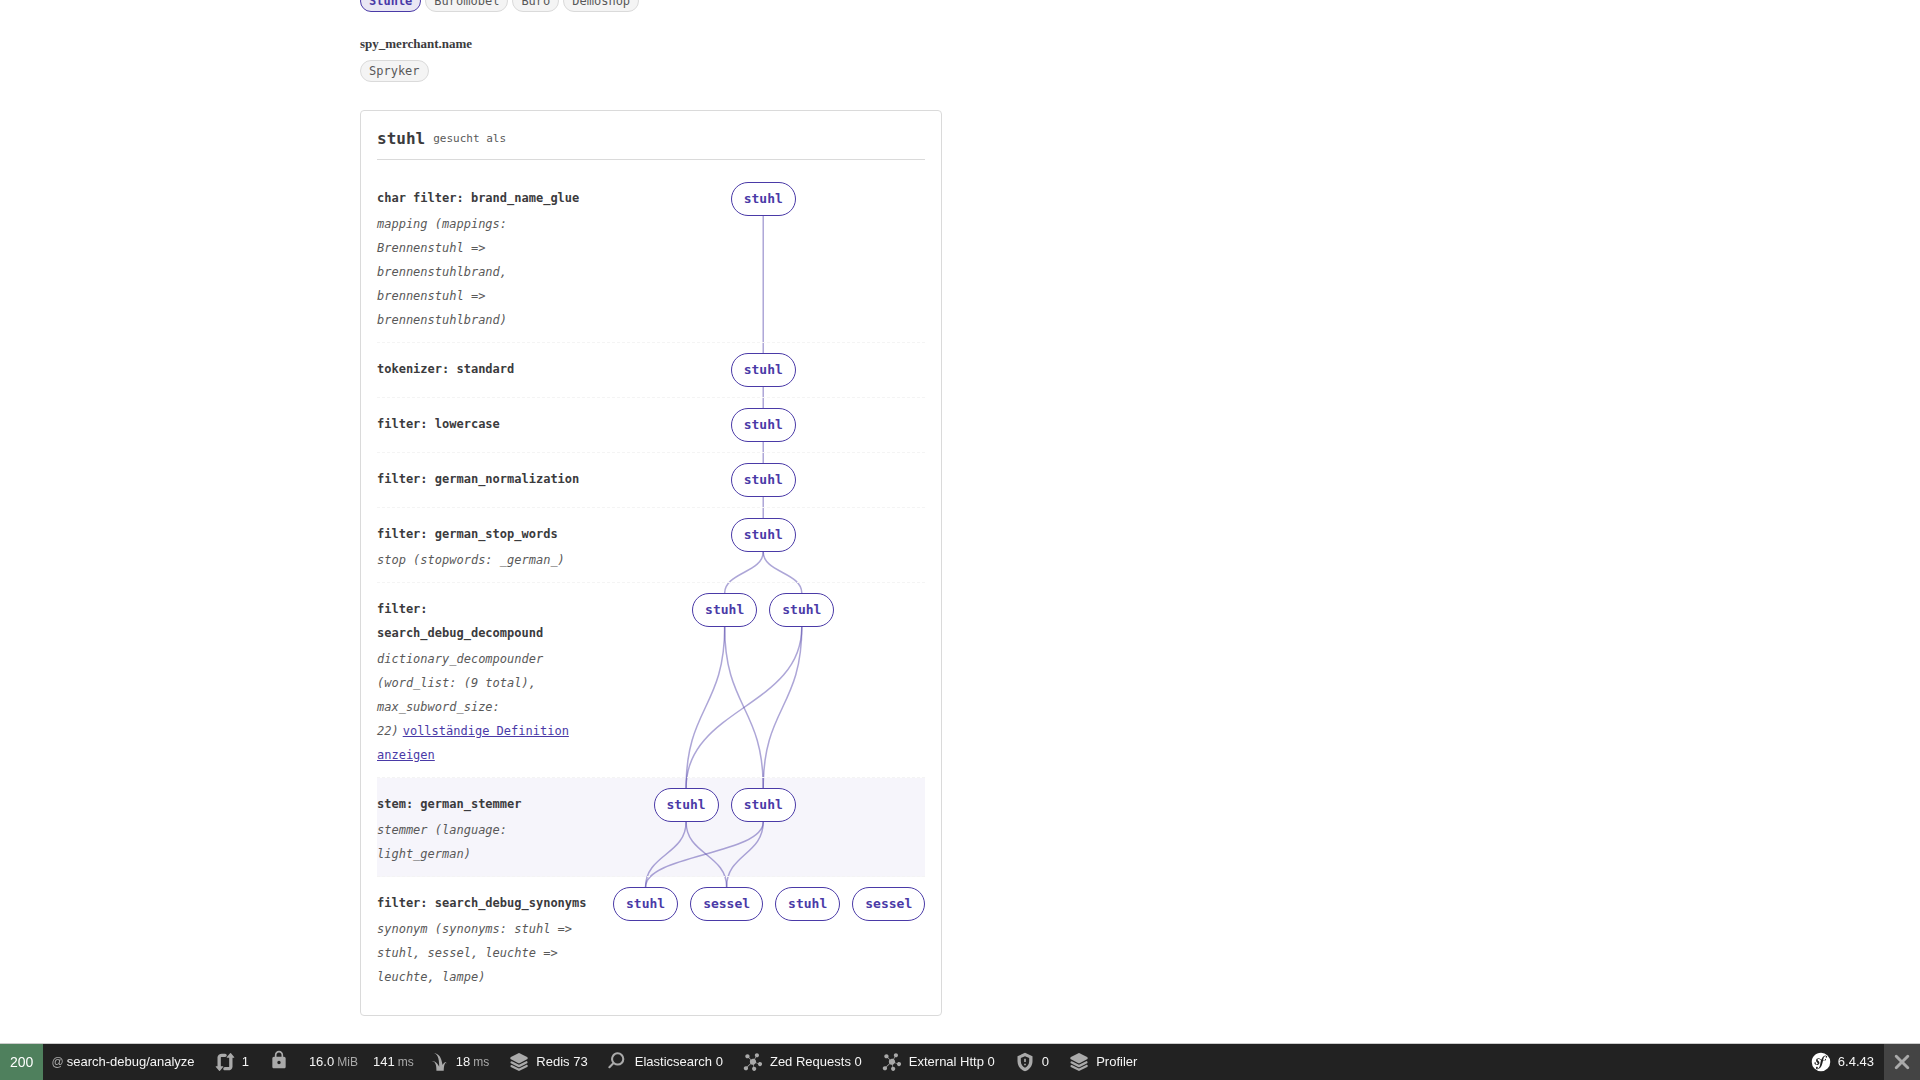
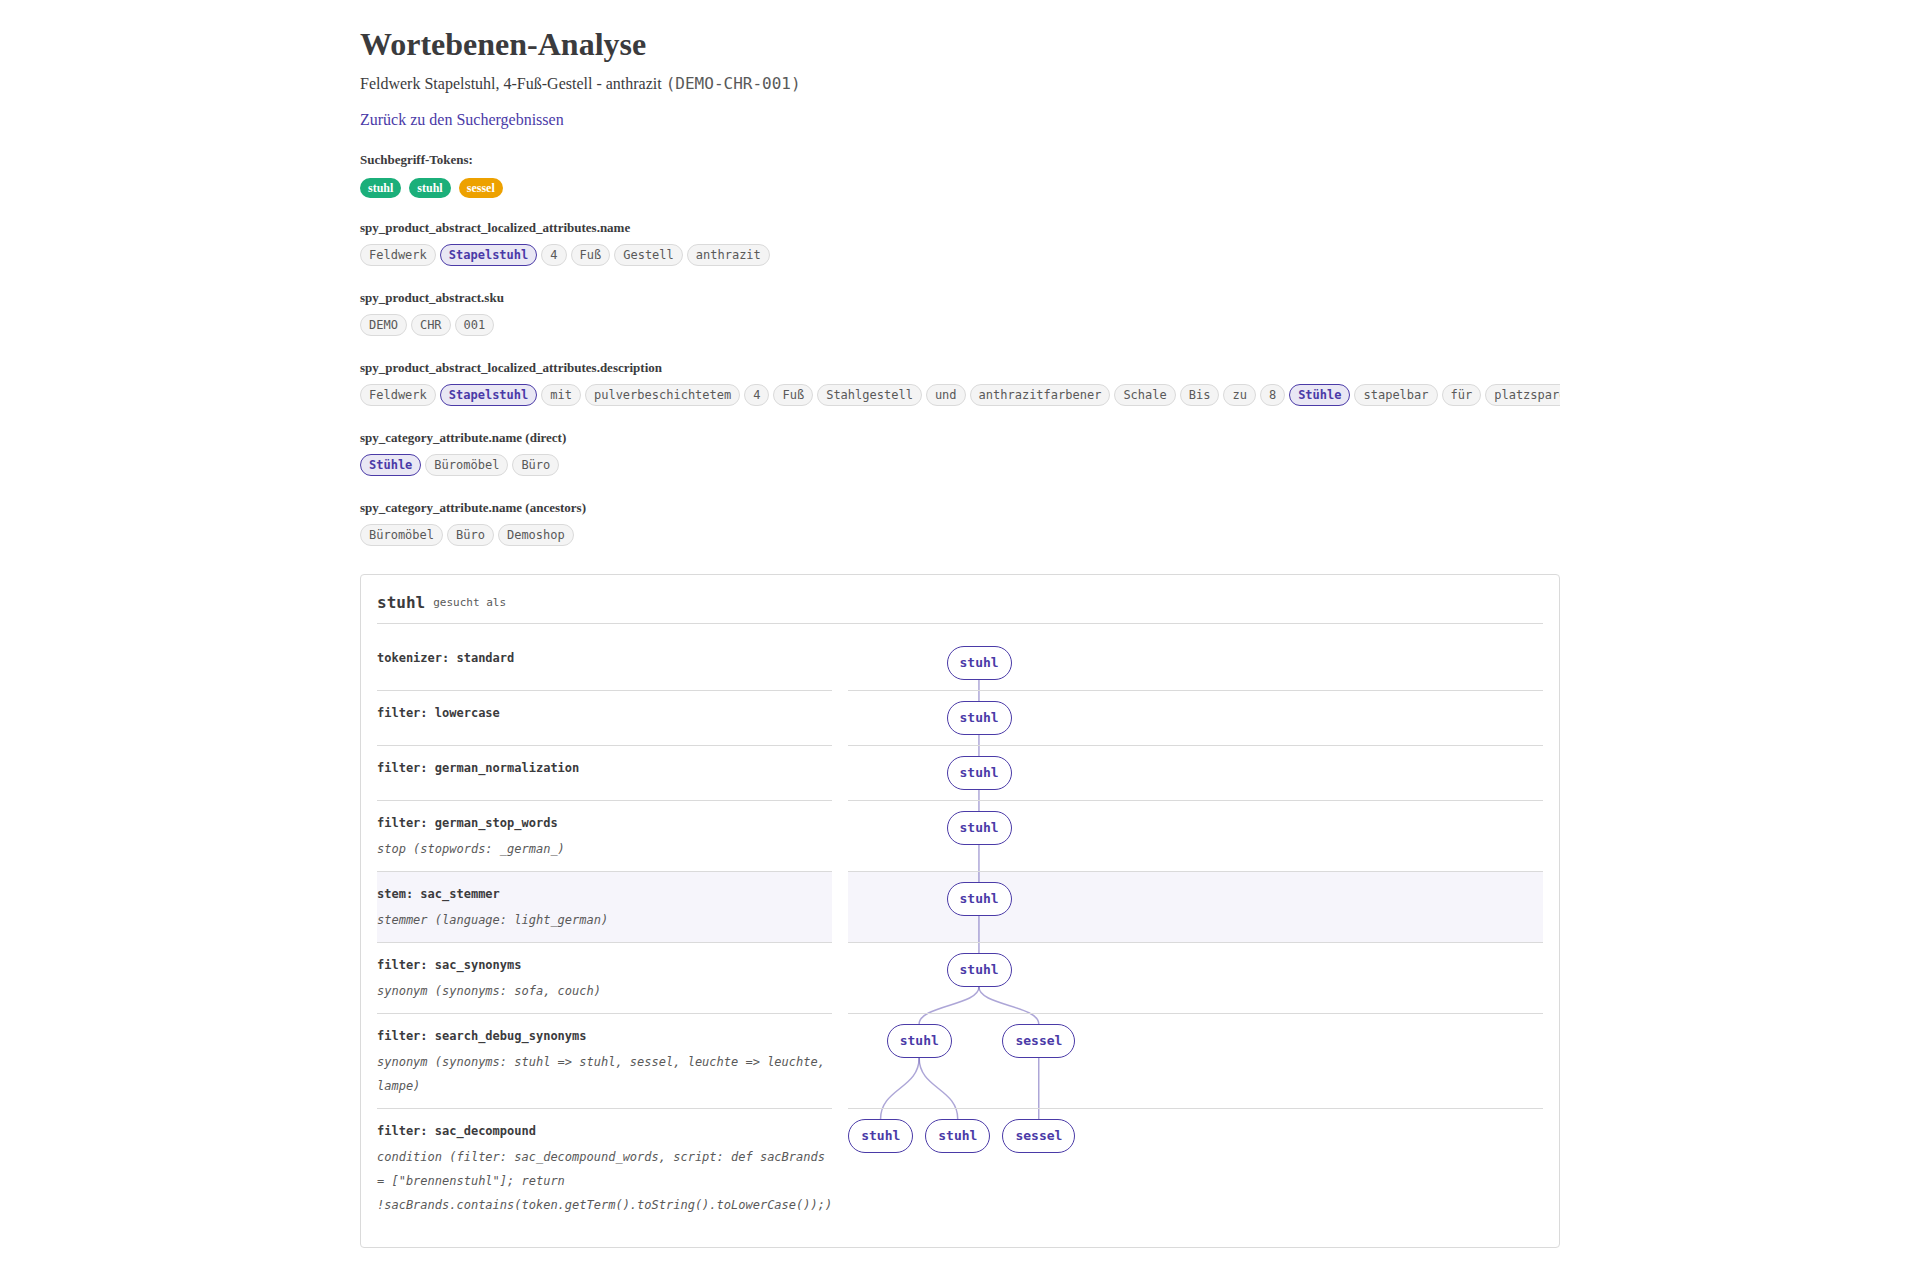
Restore screenshots against a fictional demo catalog (#35)
* Finish removing the analyze-page screenshot the earlier cleanup missed

The word-level analysis page screenshot was left behind when the other
three screenshots were removed for the same demoshop-license reason
(product images/data excluded even under evaluation terms).

* Restore screenshots against a fictional demo catalog, not the demoshop's licensed one

The demoshop's own license excludes product images/data even under evaluation
terms, which is why the previous screenshots were removed. Rather than dropping
screenshots from the README permanently, this fixture now applies a shared
"Feldwerk" demo catalog (fixtures/demo-catalog/*.csv) — 12 entirely fictional
products with SVG-data-URI images and their own DE pricing — used by every
sibling package's README/website screenshots going forward. Also adds the
missing product_abstract_store/product_abstract_approval_status rows: without
either, ProductPageSearch's own publisher and ProductApproval's collection
filter silently drop a brand-new product out of search results entirely.

* Hide the Symfony debug toolbar and collapse specificity weighting in screenshots

The dev-environment debug toolbar (request time/memory/Redis/ES counters) was
visible at the bottom of every screenshot — dev chrome, not part of the actual
UI. The SRP overlay screenshot also had "Specificity weighting" expanded,
which is noise for an introductory screenshot of the overlay's basic shape.

* Fix rector SimplifyUselessVariableRector finding
[…]

diff --git a/fixtures/apply.php b/fixtures/apply.php
@@ -19,6 +19,13 @@ declare(strict_types = 1);
  * package's own permission) — this script only ever ADDS its own permission row and glossary keys, so
  * running it alongside any sibling's own apply.php is safe in either order.
  *
+ * Also applies the shared "Feldwerk" demo catalog (fixtures/demo-catalog/*.csv): 12 entirely fictional
+ * products (10 chairs + 1 hand trolley + 1 paper shredder), own SVG-data-URI images, own DE pricing —
+ * used by every sibling package's README/website screenshots instead of this demoshop's real, licensed
+ * supplier catalog (real brand photography/copy that can't be redistributed publicly). SHARED with the
+ * same three sibling packages as the customer fixture above, same "first one creates it, rest skip"
+ * idempotency, keyed by abstract_sku/concrete_sku. See search-toolkit's FIXTURE_CLAIMS.md.
+ *
  * Usage: php fixtures/apply.php /path/to/b2b-demo-marketplace
  *
  * Then, from that demoshop checkout:
@@ -28,6 +35,13 @@ declare(strict_types = 1);
  *   ./docker/sdk console data:import company-user-role
  *   ./docker/sdk console data:import company-role-permission
  *   ./docker/sdk console data:import glossary
+ *   ./docker/sdk console data:import product-abstract
+ *   ./docker/sdk console data:import product-abstract-store
+ *   ./docker/sdk console data:import product-approval-status
+ *   ./docker/sdk console data:import product-concrete
+ *   ./docker/sdk console data:import product-stock
+ *   ./docker/sdk console data:import product-image
+ *   ./docker/sdk console data:import product-price
  */
 
 $demoshopRoot = $argv[1] ?? null;
@@ -228,6 +242,77 @@ function applyGlossary(string $dataDir, string $ownGlossaryCsvPath): int
     return $added;
 }
 
+/**
+ * Idempotently appends every row from $ownCsvPath into $targetPath whose $dedupColumns values aren't
+ * already present in the target — same "additive, safe to re-run, safe alongside siblings" shape as the
+ * customer/glossary fixtures above.
+ *
+ * @param string $targetPath
+ * @param string $ownCsvPath
+ * @param array<int, string> $dedupColumns
+ *
+ * @return int Number of rows added.
+ */
+function mergeCsvRows(string $targetPath, string $ownCsvPath, array $dedupColumns): int
+{
+    $target = readCsv($targetPath);
+    $existingKeys = [];
+
+    foreach ($target['rows'] as $row) {
+        $existingKeys[dedupKey($row, $dedupColumns)] = true;
+    }
+
+    $own = readCsv($ownCsvPath);
+    $added = 0;
+
+    foreach ($own['rows'] as $row) {
+        $key = dedupKey($row, $dedupColumns);
+
+        if (isset($existingKeys[$key])) {
+            continue;
+        }
+
+        $target['rows'][] = $row;
+        $existingKeys[$key] = true;
+        $added++;
+    }
+
+    if ($added > 0) {
+        writeCsv($targetPath, $target['header'], $target['rows']);
+    }
+
+    return $added;
+}
+
+/**
+ * @param array<string, string> $row
+ * @param array<int, string> $columns
+ */
+function dedupKey(array $row, array $columns): string
+{
+    return implode("\0", array_map(fn (string $column): string => $row[$column] ?? '', $columns));
+}
+
+/**
+ * @param string $dataDir
+ * @param string $demoshopRoot
+ * @param string $demoCatalogDir
+ *
+ * @return int Total rows added across all 7 demo-catalog CSVs.
+ */
+function applyDemoCatalog(string $dataDir, string $demoshopRoot, string $demoCatalogDir): int
+{
+    $added = 0;
+    $added += mergeCsvRows($dataDir . '/product_abstract.csv', $demoCatalogDir . '/product_abstract.csv', ['abstract_sku']);
+    $added += mergeCsvRows($demoshopRoot . '/data/import/common/DE/product_abstract_store.csv', $demoCatalogDir . '/product_abstract_store_DE.csv', ['abstract_sku', 'store_name']);
+    $added += mergeCsvRows($dataDir . '/product_abstract_approval_status.csv', $demoCatalogDir . '/product_abstract_approval_status.csv', ['sku']);
+    $added += mergeCsvRows($dataDir . '/product_concrete.csv', $demoCatalogDir . '/product_concrete.csv', ['concrete_sku']);
+    $added += mergeCsvRows($dataDir . '/product_stock.csv', $demoCatalogDir . '/product_stock.csv', ['concrete_sku']);
+    $added += mergeCsvRows($dataDir . '/product_image.csv', $demoCatalogDir . '/product_image.csv', ['abstract_sku', 'locale']);
+
+    return $added + mergeCsvRows($demoshopRoot . '/data/import/common/DE/product_price.csv', $demoCatalogDir . '/product_price_DE.csv', ['abstract_sku', 'store']);
+}
+
 $customerRowsAdded = applySearchAdminCustomerFixture($dataDir);
 echo "search-admin customer/company-user fixture: $customerRowsAdded row(s) added\n";
 
@@ -237,6 +322,9 @@ echo 'company_role_permission.csv: ' . ($permissionRowAdded ? '1 row added' : 'a
 $glossaryRowsAdded = applyGlossary($dataDir, __DIR__ . '/glossary.csv');
 echo "glossary.csv: $glossaryRowsAdded row(s) added\n";
 
+$demoCatalogRowsAdded = applyDemoCatalog($dataDir, $demoshopRoot, __DIR__ . '/demo-catalog');
+echo "Feldwerk demo catalog: $demoCatalogRowsAdded row(s) added\n";
+
 echo "\nDone. Now run (from the demoshop root):\n";
 echo "  ./docker/sdk console data:import customer\n";
 echo "  ./docker/sdk console data:import company-user\n";
@@ -244,3 +332,10 @@ echo "  ./docker/sdk console data:import company-business-unit-user\n";
 echo "  ./docker/sdk console data:import company-user-role\n";
 echo "  ./docker/sdk console data:import company-role-permission\n";
 echo "  ./docker/sdk console data:import glossary\n";
+echo "  ./docker/sdk console data:import product-abstract\n";
+echo "  ./docker/sdk console data:import product-abstract-store\n";
+echo "  ./docker/sdk console data:import product-approval-status\n";
+echo "  ./docker/sdk console data:import product-concrete\n";
+echo "  ./docker/sdk console data:import product-stock\n";
+echo "  ./docker/sdk console data:import product-image\n";
+echo "  ./docker/sdk console data:import product-price\n";

diff --git a/README.md b/README.md
@@ -84,14 +84,18 @@ catalog search:
   frequency, field length vs. average field length — every number BM25 actually computes with), collapsed
   behind its own toggle so the headline total stays the default view. The overlay stays open on click (a
   pin-toggle button, independent of continued hover) for copying values or comparing two products side by
-  side.
+  side:
+
+  ![The SRP score overlay: matched tokens with a magnifying-glass link, the raw text-match score, per-field score contributions (type, store, locale, is-active), and the final score used for ranking](docs/screenshots/srp-overlay.png)
 - **Token-source page** — a magnifier next to each matched token opens a page that attributes the token
   back to the raw product fields it was indexed from (name, SKU, variants, descriptions, categories,
   merchant name). It reads the product's **real indexed document** and analyzes its elements with the
   **index-time analyzer**, so prefix/ngram matches (e.g. searching `öl` matching *Ölpapier*) and
   searchable-attribute contributions (Zed → Search Preferences) are attributed correctly — including
   values no known source claims, which are shown honestly as "other indexed value", carrying a `?`
-  affordance that explains why and how to name them.
+  affordance that explains why and how to name them:
+
+  ![The token-source page: one tier per searched field (name, description, brand), each matched fragment highlighted with a link to its analysis path, plus an "other indexed value" tier for a value no known source claims — labeled honestly rather than hidden](docs/screenshots/token-source-page.png)
 - **Analysis-path page** — a second magnifier next to each matched fragment on the token-source page opens
   a page showing exactly how that raw text became the matched token: one box per analyzer stage (char
   filters, the tokenizer, every token filter, in chain order), connected by the ES operation that produced
@@ -106,6 +110,8 @@ catalog search:
   Every step is colored by its own exact text, cycling a fixed palette — the SAME text anywhere in the
   path gets the SAME color, so a color CHANGE between neighboring steps is itself the visual tell that a
   filter actually transformed the text (e.g. a synonym injecting a different word), not just decoration.
+
+  ![The analysis-path page: "trolley" traced stage by stage through the full analyzer chain — tokenizer, lowercase, German normalization, stop words, stemmer, synonyms, decompounding, edge-ngram — every stage keeping the same color since none of them transform this particular word](docs/screenshots/analysis-path-page.png)
 
   The SRP overlay's own query-token headline has the same magnifier, on each token — traced through the
   **search-time** analyzer instead, since a query token was never indexed, only searched. When a shop's
@@ -165,7 +171,7 @@ the next row — so a filter that fans one word into several (a decompounder, a 
 edge-ngram filter) is fully visible as multiple branches, not collapsed to the one lineage that happened to
 match. A token a filter drops outright (a stop word, a min-length cutoff) gets an explicit `∅` marker
 rather than just silently having no more rows underneath it, and a stemming stage is called out as
-`stem: X` rather than buried as one more generic `filter: X` line:
+`stem: X` rather than buried as one more generic `filter: X` line.
 
 ![The word-level analysis page: "stuhl" traced stage by stage, fanning into "stuhl"/"sessel" at the synonym filter — every branch visible at once, not collapsed to one matched lineage](docs/screenshots/analyze-page.png)
 
